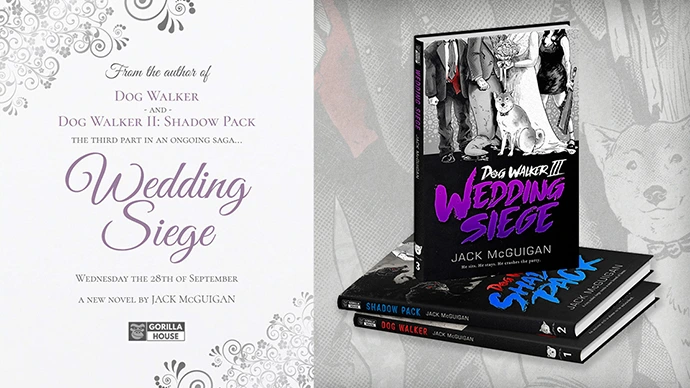
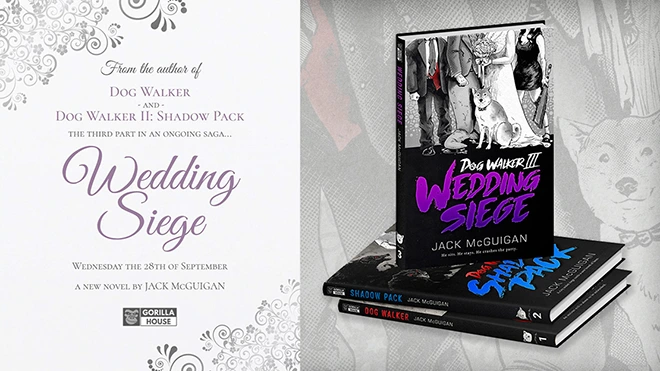
size fix

diff --git a/index.html b/index.html
@@ -105,11 +105,11 @@
 	<div class="banner">
 		<a href="https://amzn.to/3Abahlj">
 			<!-- sm -->
-			<img class="d-md-none img-fluid w-100 mb-0" alt="Dog Walker III Wedding Siege from the author of Dog Walker and Dog Walker II Shadow Pack the third part in an ongoing saga Wednesday the 28th of September a new novel by Jack McGuigan pre-order now" src="images/dog-walker-iii-pre-order-sm.webp" >
+			<img class="d-md-none img-fluid w-100 mb-0" alt="Dog Walker III Wedding Siege from the author of Dog Walker and Dog Walker II Shadow Pack the third part in an ongoing saga Wednesday the 28th of September a new novel by Jack McGuigan pre-order now" src="images/dog-walker-iii-pre-order-sm.webp" height="624" width="1110">
 			<!-- md -->
-			<img class="d-none d-md-block d-lg-none img-fluid w-100 mb-0" alt="Dog Walker III Wedding Siege from the author of Dog Walker and Dog Walker II Shadow Pack the third part in an ongoing saga Wednesday the 28th of September a new novel by Jack McGuigan pre-order now" src="images/dog-walker-iii-pre-order-md.webp">
+			<img class="d-none d-md-block d-lg-none img-fluid w-100 mb-0" alt="Dog Walker III Wedding Siege from the author of Dog Walker and Dog Walker II Shadow Pack the third part in an ongoing saga Wednesday the 28th of September a new novel by Jack McGuigan pre-order now" src="images/dog-walker-iii-pre-order-md.webp" height="371" width="660">
 			<!-- lg -->
-			<img class="d-none d-lg-block img-fluid w-100 mb-0" alt="Dog Walker III Wedding Siege from the author of Dog Walker and Dog Walker II Shadow Pack the third part in an ongoing saga Wednesday the 28th of September a new novel by Jack McGuigan pre-order now" src="images/dog-walker-iii-pre-order-lg.webp">
+			<img class="d-none d-lg-block img-fluid w-100 mb-0" alt="Dog Walker III Wedding Siege from the author of Dog Walker and Dog Walker II Shadow Pack the third part in an ongoing saga Wednesday the 28th of September a new novel by Jack McGuigan pre-order now" src="images/dog-walker-iii-pre-order-lg.webp" height="371" width="660">
 		</a>
 	</div>
 	<div id="ticker" class="carousel slide text-white mb-4" data-ride="carousel">
